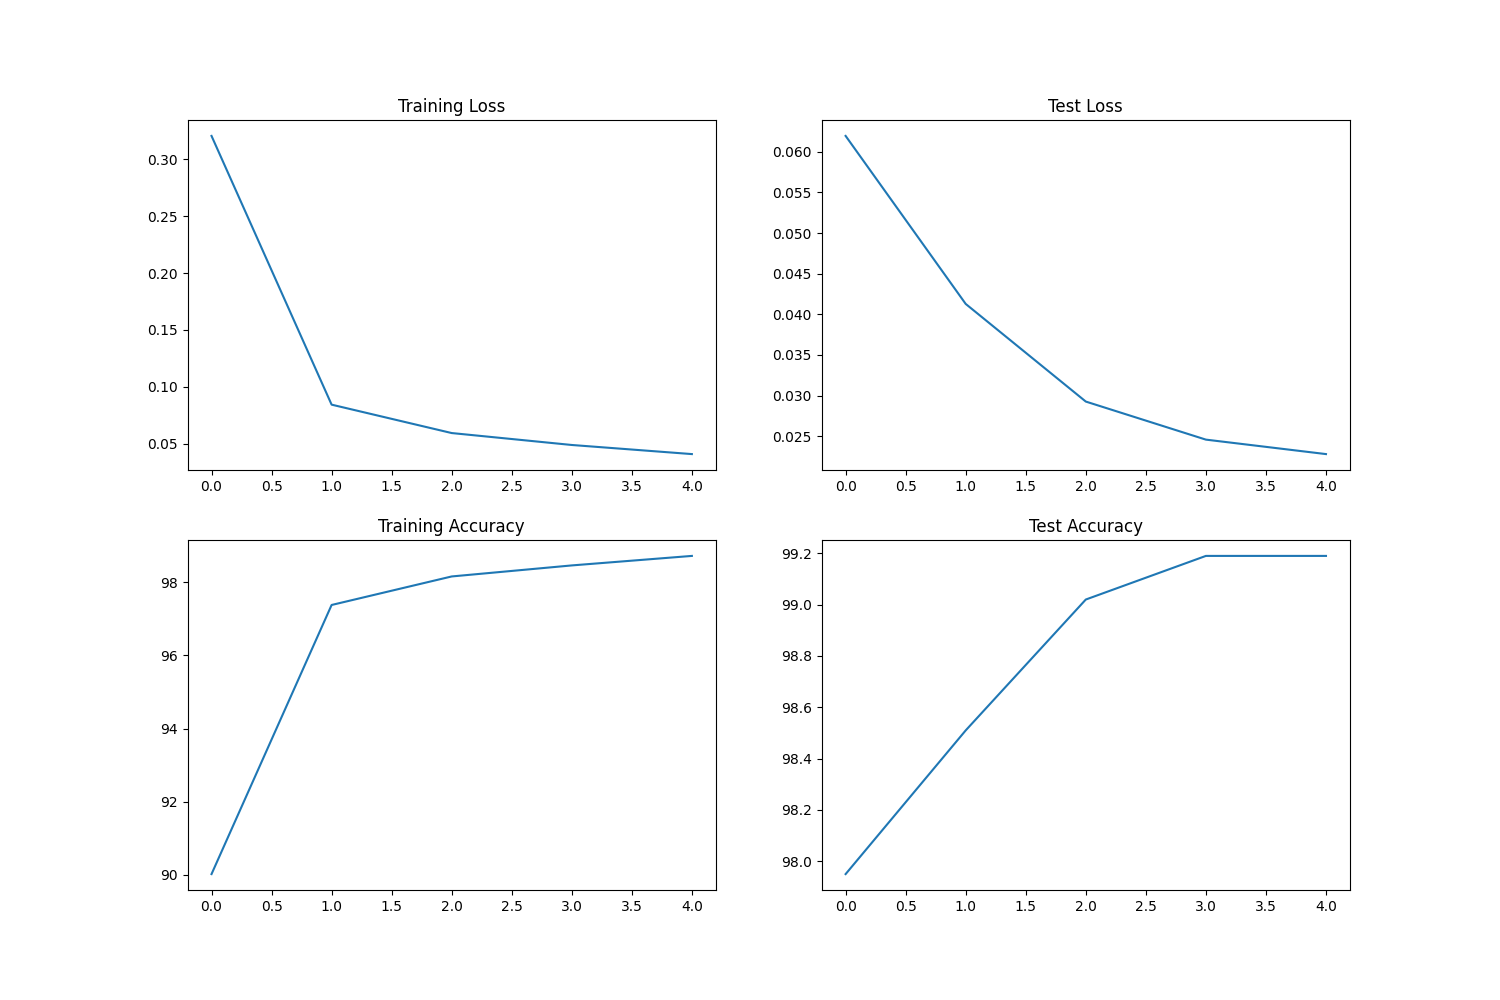
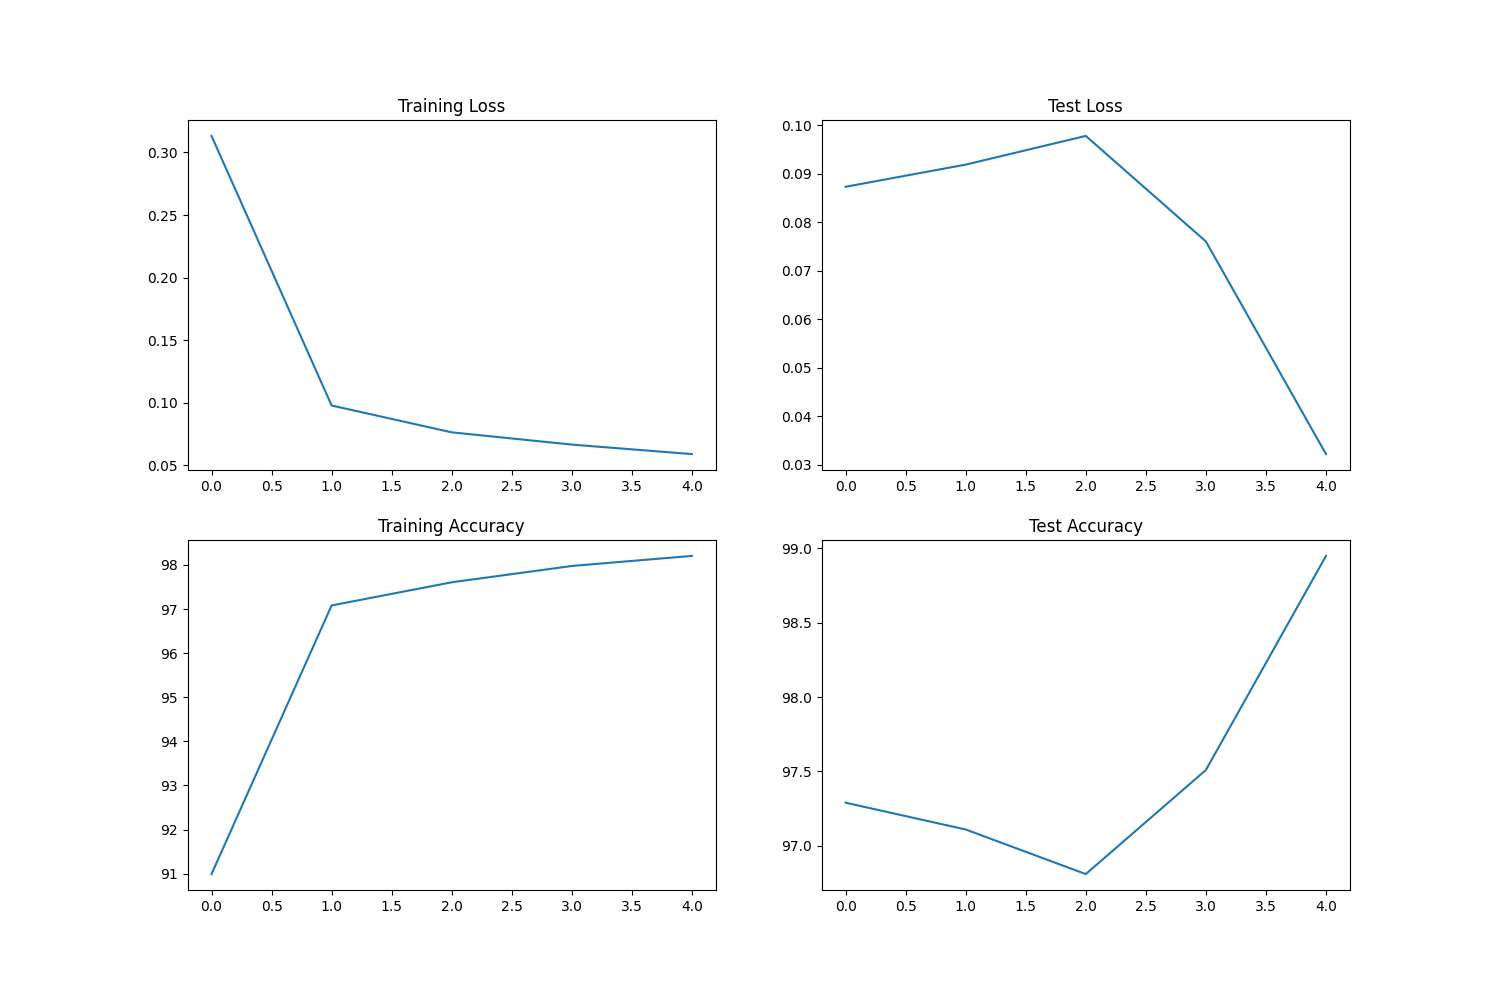
Main program included with TinyNet Class

diff --git a/Week_04_Train_Mnist_Model/main.py b/Week_04_Train_Mnist_Model/main.py
@@ -46,7 +46,35 @@ class Net(nn.Module):
         x = F.relu(self.fc1(x))
         x = self.fc2(x)  # raw logits
         return x
+    
+# --------------------------------------------
+# A smaller model with fewer parameters
+# --------------------------------------------
+class TinyNet(nn.Module):
+    def __init__(self):
+        super(TinyNet, self).__init__()
+        self.conv1 = nn.Conv2d(1, 20, 3, padding=1)     # 200 params
+        self.bn1 = nn.BatchNorm2d(20)                   # 40
 
+        self.conv2 = nn.Conv2d(20, 28, 3, padding=1)    # 5,048 params
+        self.bn2 = nn.BatchNorm2d(28)                   # 56
+
+        self.conv3 = nn.Conv2d(28, 64, 3, padding=1)    # 16,192 params
+        self.bn3 = nn.BatchNorm2d(64)                   # 128
+
+        self.pool = nn.MaxPool2d(2, 2)
+        self.gap = nn.AdaptiveAvgPool2d(1)
+        self.fc = nn.Linear(64, 10)                     # 650
+
+    def forward(self, x):
+        x = self.pool(F.relu(self.bn1(self.conv1(x))))
+        x = self.pool(F.relu(self.bn2(self.conv2(x))))
+        x = F.relu(self.bn3(self.conv3(x)))
+        x = self.gap(x)
+        x = x.view(x.size(0), -1)
+        return self.fc(x)
+# Total params: ~22,514
+    
 # ----------------------------
 # Training & Testing
 # ----------------------------
@@ -127,7 +155,8 @@ def main():
     test_loader = torch.utils.data.DataLoader(test_data, batch_size=args.batch_size, shuffle=False, num_workers=2, pin_memory=True)
 
     # Model, optimizer, scheduler
-    model = Net().to(device)
+    # model = Net().to(device)
+    model = TinyNet().to(device)  # Use TinyNet instead of Net for fewer parameters
     optimizer = optim.Adam(model.parameters(), lr=args.lr)
     scheduler = optim.lr_scheduler.StepLR(optimizer, step_size=args.step_size, gamma=args.gamma)
     criterion = nn.CrossEntropyLoss()

diff --git a/Week_04_Train_Mnist_Model/README.md b/Week_04_Train_Mnist_Model/README.md
@@ -30,7 +30,7 @@ pip install -r requirements.txt
 
 3. Usage
 
-python main.py --epochs 10 --batch-size 256 --lr 0.0005
+python main.py --epochs 5 --batch-size 256 --lr 0.001
 
 Available Options
 
